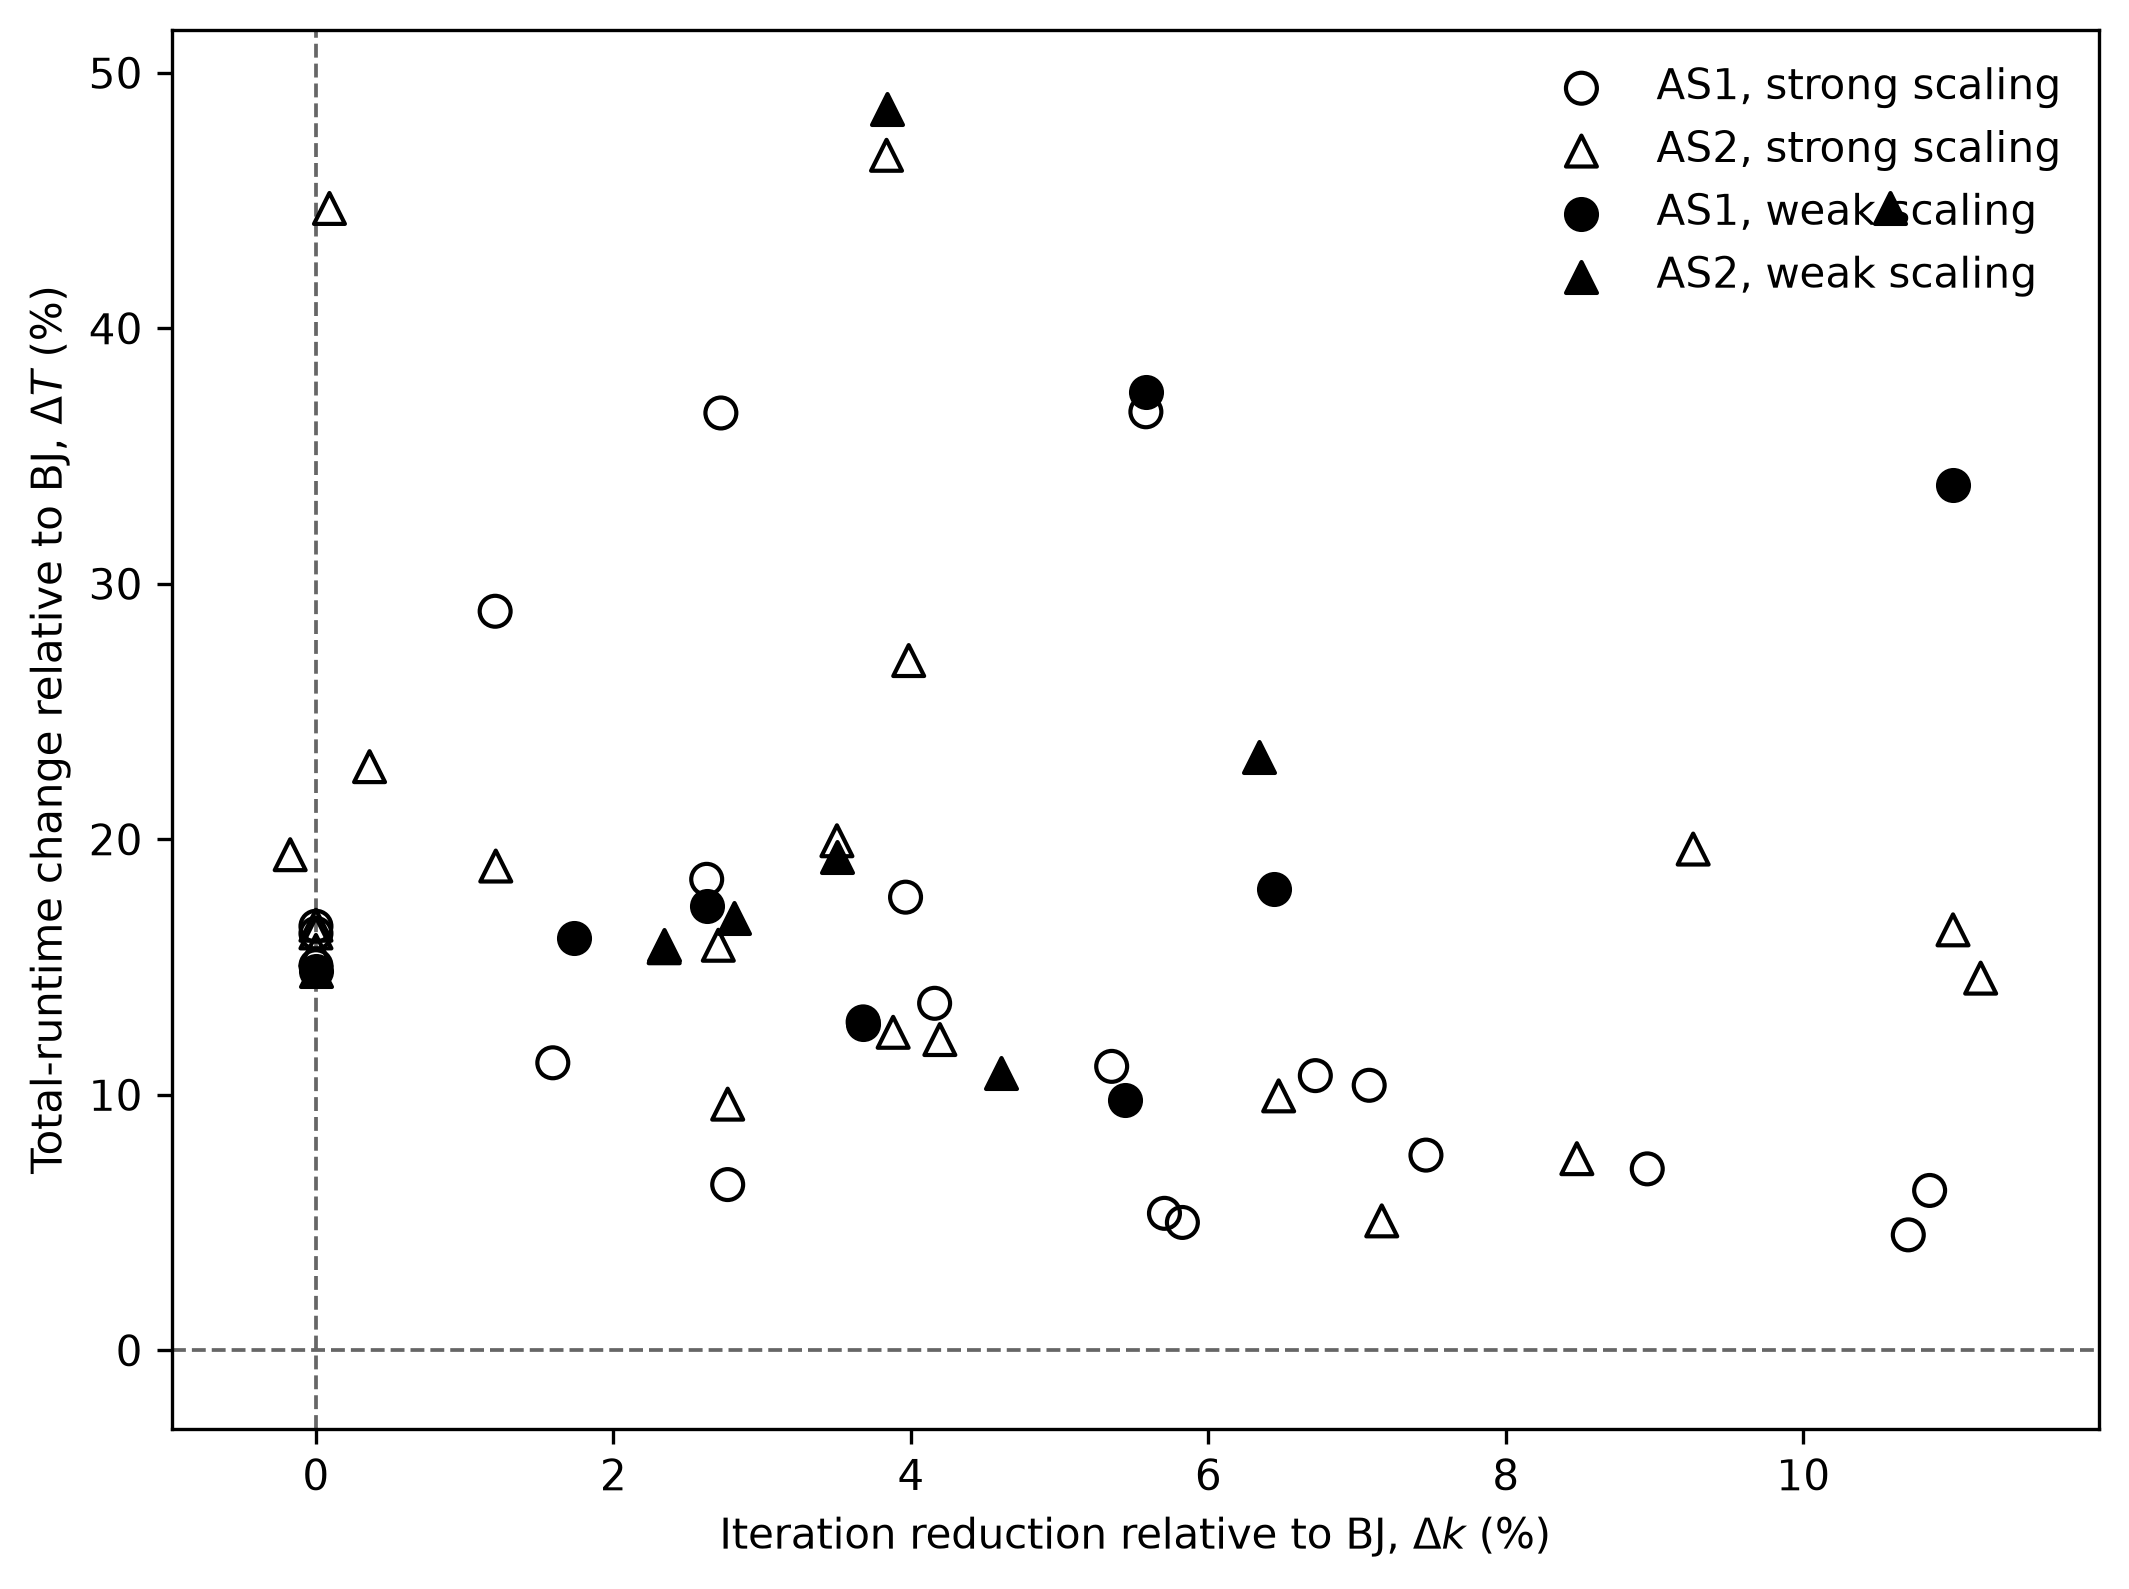
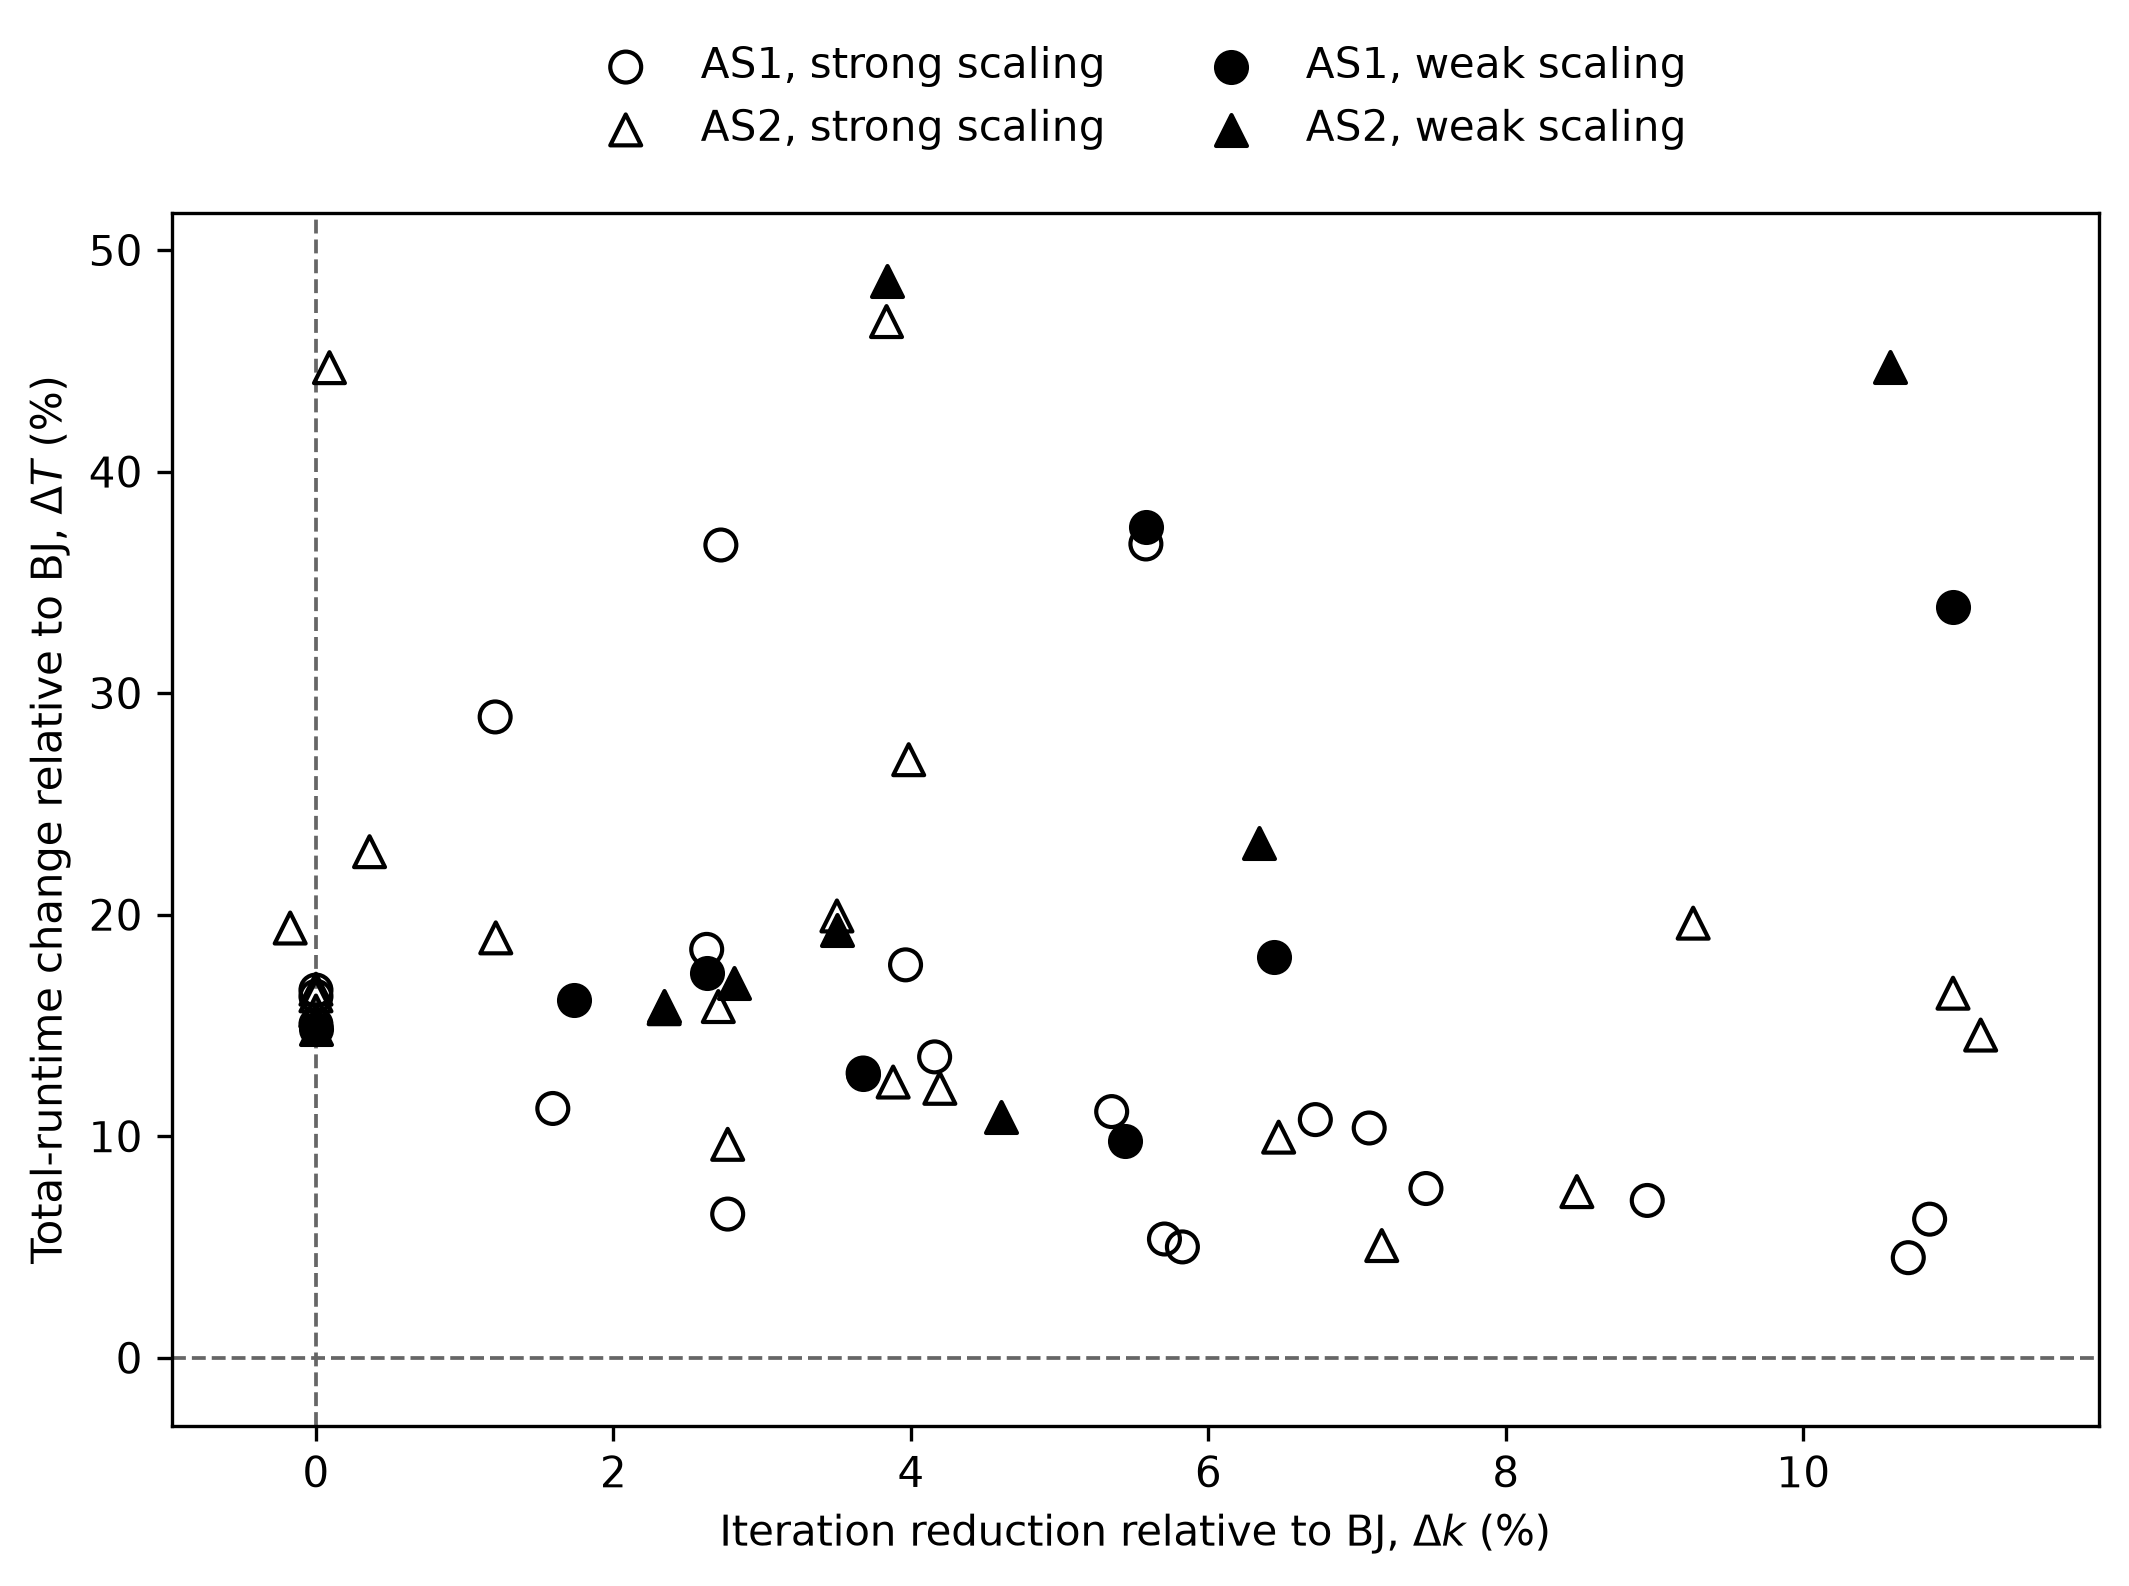
Move overlap trade-off legend above plot

diff --git a/scripts/plot_overlap_tradeoff_final10.py b/scripts/plot_overlap_tradeoff_final10.py
@@ -251,7 +251,9 @@ ax.set_ylim(
 
 ax.legend(
     frameon=False,
-    loc="best",
+    loc="lower center",
+    bbox_to_anchor=(0.5, 1.02),
+    ncol=2,
 )
 
 fig.tight_layout()
